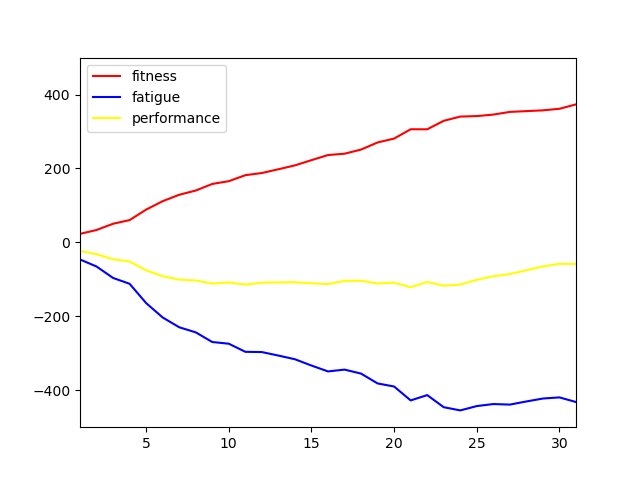
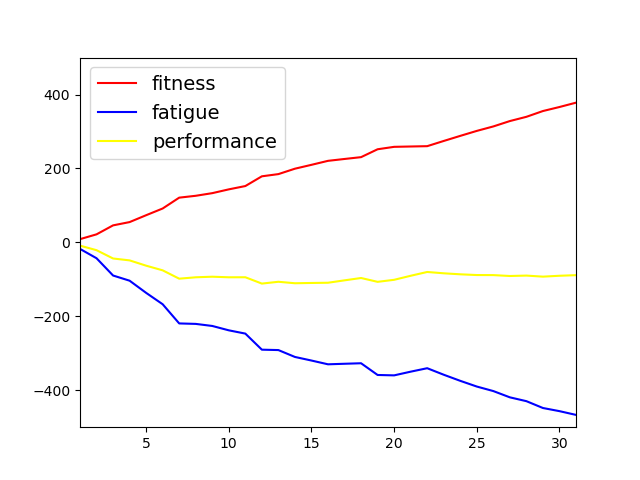
bigger legend

diff --git a/sim1/sim1.py b/sim1/sim1.py
@@ -49,7 +49,7 @@ file_df.to_excel('./sim1.xlsx')
 plt.plot(x,fit,color='red',label="fitness")
 plt.plot(x,fig,color='blue',label="fatigue")
 plt.plot(x,par,color='yellow',label="performance")
-plt.legend()
+plt.legend(fontsize=14)
 plt.xlim(1,day_length)
 plt.ylim(-500,500)
 plt.show()

diff --git a/sim2/sim2.py b/sim2/sim2.py
@@ -65,7 +65,7 @@ file_df.to_excel('./sim2.xlsx')
 plt.plot(x,fit,color='red',label="fitness")
 plt.plot(x,fig,color='blue',label="fatigue")
 plt.plot(x,par,color='yellow',label="performance")
-plt.legend()
+plt.legend(fontsize=14)
 plt.xlim(1,day_length)
 plt.ylim(-600,600)
 plt.show()

diff --git a/sim3/sim3.py b/sim3/sim3.py
@@ -75,7 +75,7 @@ file_df.to_excel('./sim3.xlsx')
 plt.plot(x,fit,color='red',label="fitness")
 plt.plot(x,fig,color='blue',label="fatigue")
 plt.plot(x,par,color='yellow',label="performance")
-plt.legend()
+plt.legend(fontsize=14)
 plt.xlim(1,day_length)
 plt.ylim(-800,800)
 plt.show()

diff --git a/sim4/sim4.py b/sim4/sim4.py
@@ -86,7 +86,7 @@ file_df.to_excel('./sim4.xlsx')
 plt.plot(x,fit,color='red',label="fitness")
 plt.plot(x,fig,color='blue',label="fatigue")
 plt.plot(x,par,color='yellow',label="performance")
-plt.legend()
+plt.legend(fontsize=14)
 plt.xlim(1,day_length)
 plt.ylim(-800,800)
 plt.show()
